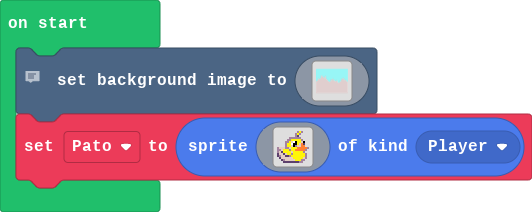
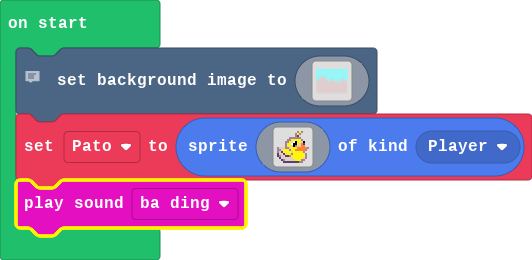
Update main.blocks, main.ts

diff --git a/main.ts b/main.ts
@@ -139,3 +139,4 @@ let Pato = sprites.create(img`
     . . c b d d d d d 5 5 5 b b . . 
     . . . c c c c c c c c b b . . . 
     `, SpriteKind.Player)
+music.baDing.play()
